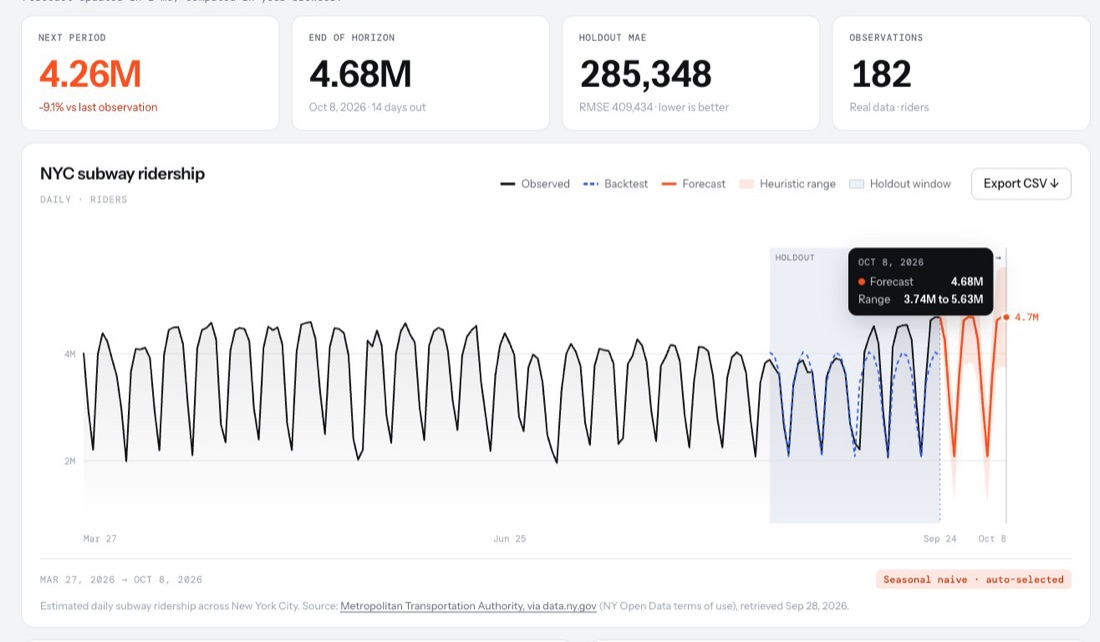
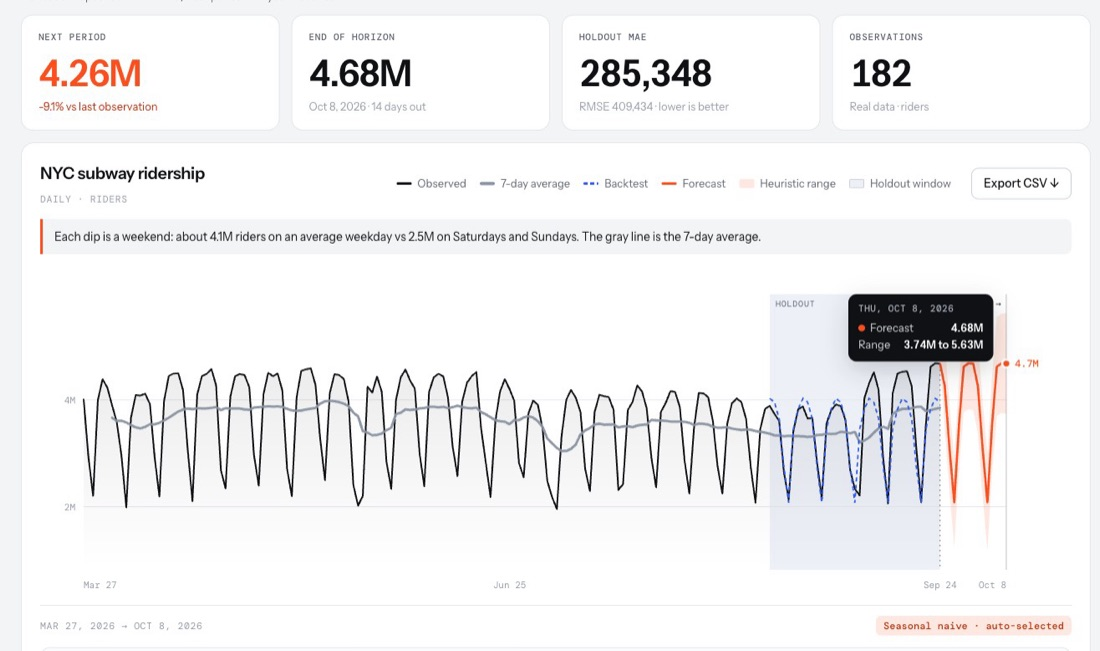
Update portfolio for current project releases

diff --git a/app/page.tsx b/app/page.tsx
@@ -123,7 +123,7 @@ const liveProjects = [
     index: "02",
     tag: "FORECASTING",
     title: "Forecast Studio",
-    body: "Forecasts real NYC subway, Wikipedia, and CO₂ data. Three models compete on a chronological holdout.",
+    body: "Forecasts real NYC subway, Wikipedia, and CO₂ data. Fifteen models compete on a chronological holdout.",
     stack: ["Time series", "Holt smoothing", "Backtesting", "Open data"],
     live: "https://sebastianlau1.github.io/forecast-studio/",
     source: "https://github.com/SebastianLau1/forecast-studio",
@@ -133,8 +133,8 @@ const liveProjects = [
   {
     index: "03",
     tag: "GENERATIVE AI · RAG",
-    title: ".gov Website Scanner",
-    body: "Scans .gov sources for cancer research and builds a brief where every line cites its page.",
+    title: "GovScrape AI",
+    body: "Scrapes .gov sources for cancer research and builds a brief where every line cites its page.",
     stack: ["Retrieval", "Cloudflare Workers", "xAI Grok", "FastAPI"],
     live: "https://sebastianlau1.github.io/ai-web-research-summarizer/",
     source: "https://github.com/SebastianLau1/ai-web-research-summarizer",

diff --git a/README.md b/README.md
@@ -11,8 +11,8 @@ Each project is its own repository, deployed to GitHub Pages and linked from the
 | Project | What it does | Demo | Code |
 | --- | --- | --- | --- |
 | Vision Lab | YOLO11n object detection on your webcam or any image, running in the browser with ONNX Runtime Web | [Open](https://sebastianlau1.github.io/vision-lab/) | [vision-lab](https://github.com/SebastianLau1/vision-lab) |
-| Forecast Studio | Forecasts real NYC subway ridership, Wikipedia traffic, and Mauna Loa CO₂; three models compete on a chronological holdout | [Open](https://sebastianlau1.github.io/forecast-studio/) | [forecast-studio](https://github.com/SebastianLau1/forecast-studio) |
-| .gov Website Scanner | Scans .gov sources for cancer research and builds a brief where every line cites its page | [Open](https://sebastianlau1.github.io/ai-web-research-summarizer/) | [ai-web-research-summarizer](https://github.com/SebastianLau1/ai-web-research-summarizer) |
+| Forecast Studio | Forecasts real NYC subway ridership, Wikipedia traffic, and Mauna Loa CO₂; fifteen models compete on a chronological holdout | [Open](https://sebastianlau1.github.io/forecast-studio/) | [forecast-studio](https://github.com/SebastianLau1/forecast-studio) |
+| GovScrape AI | Scrapes .gov sources for cancer research and builds a brief where every line cites its page | [Open](https://sebastianlau1.github.io/ai-web-research-summarizer/) | [ai-web-research-summarizer](https://github.com/SebastianLau1/ai-web-research-summarizer) |
 
 ## What's on the site
 
